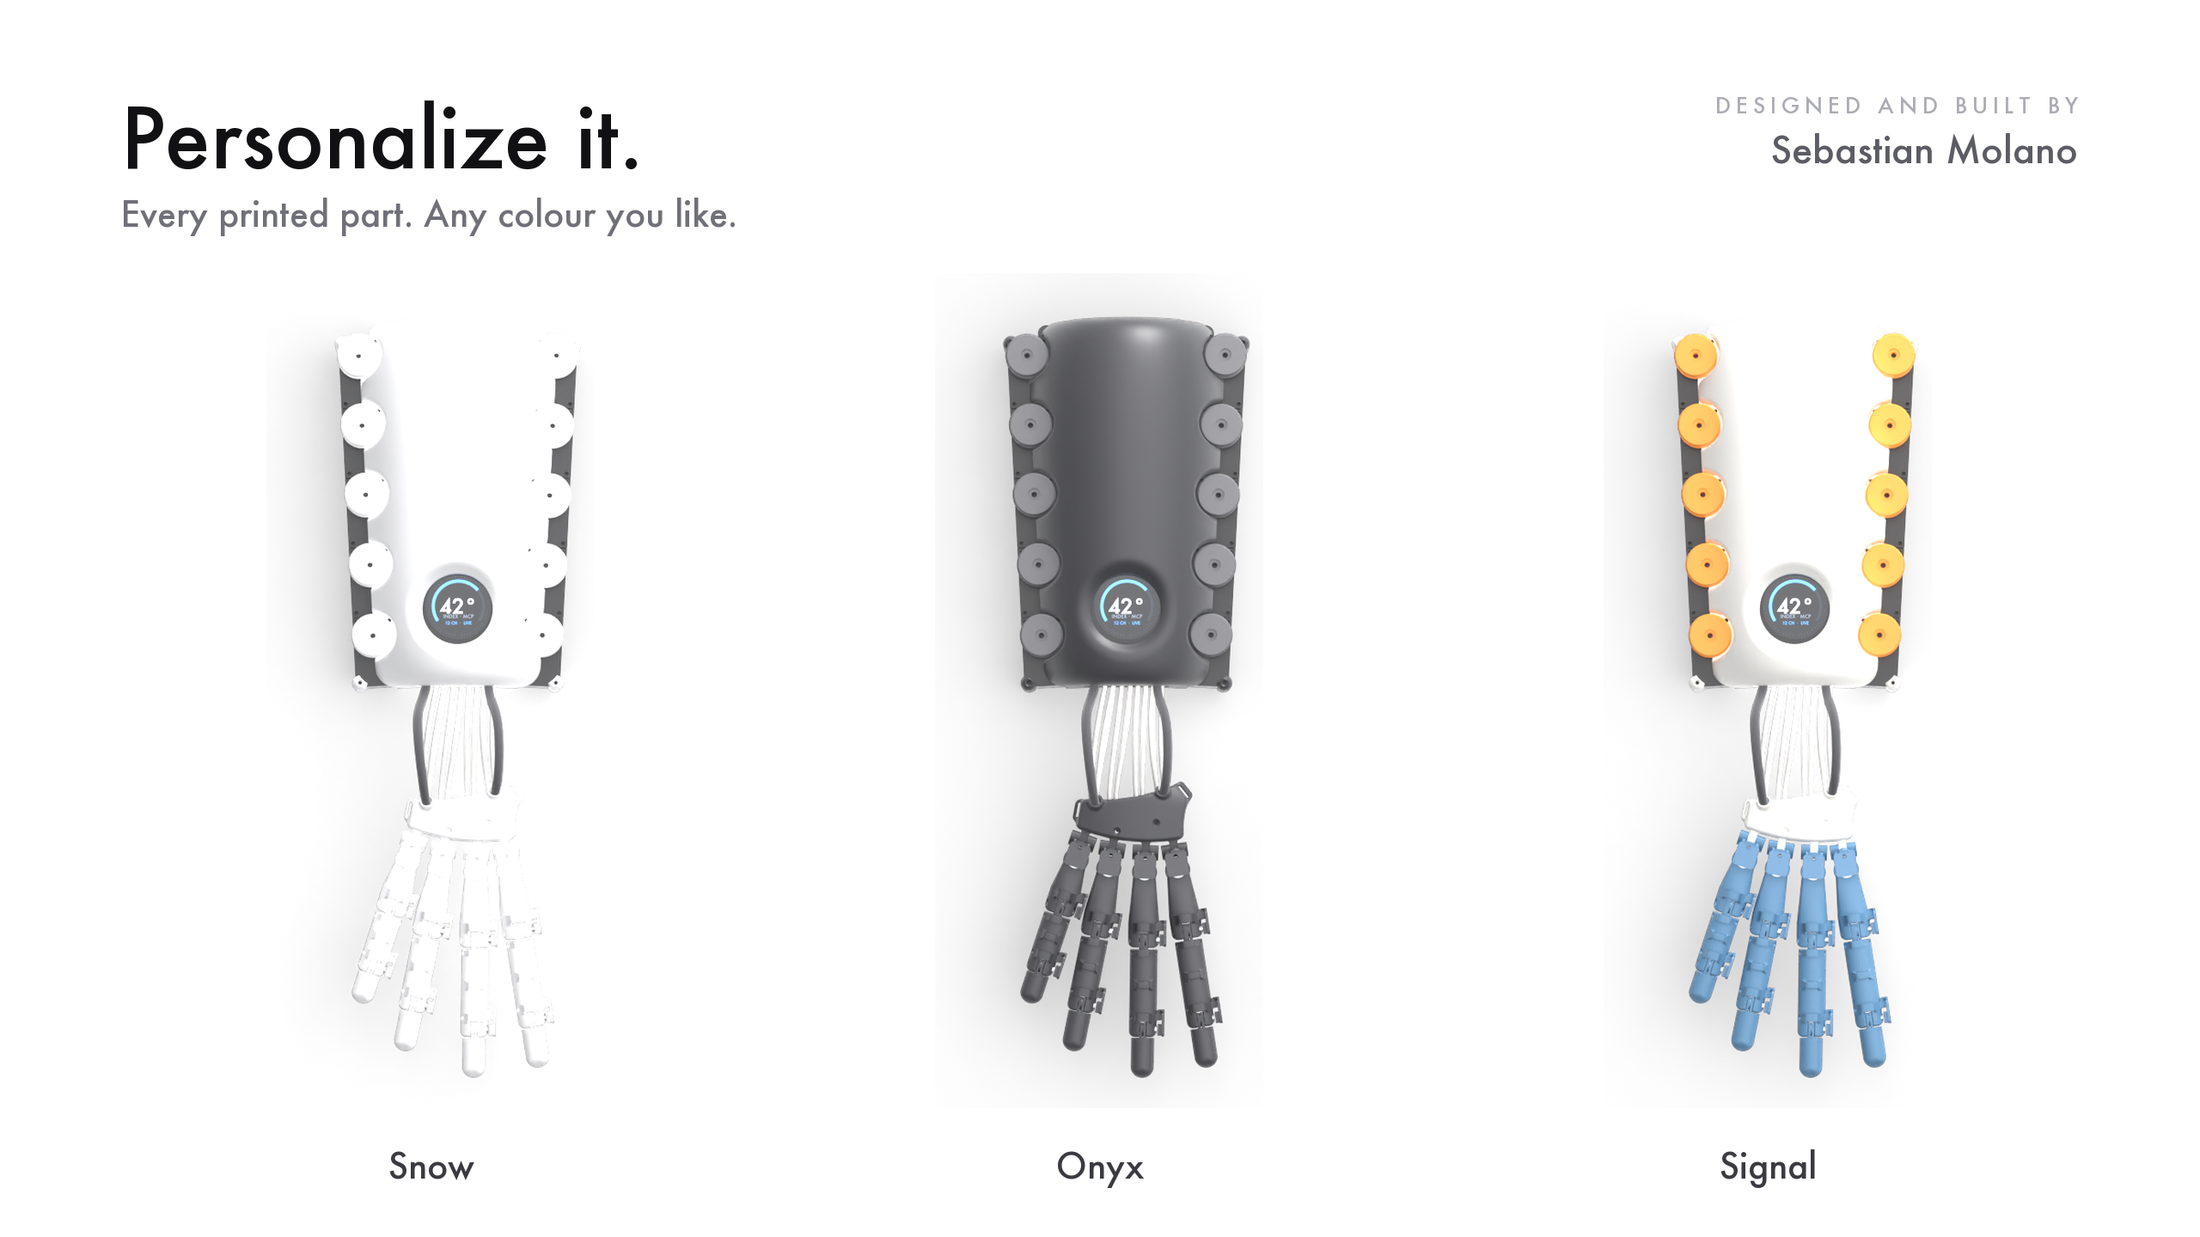
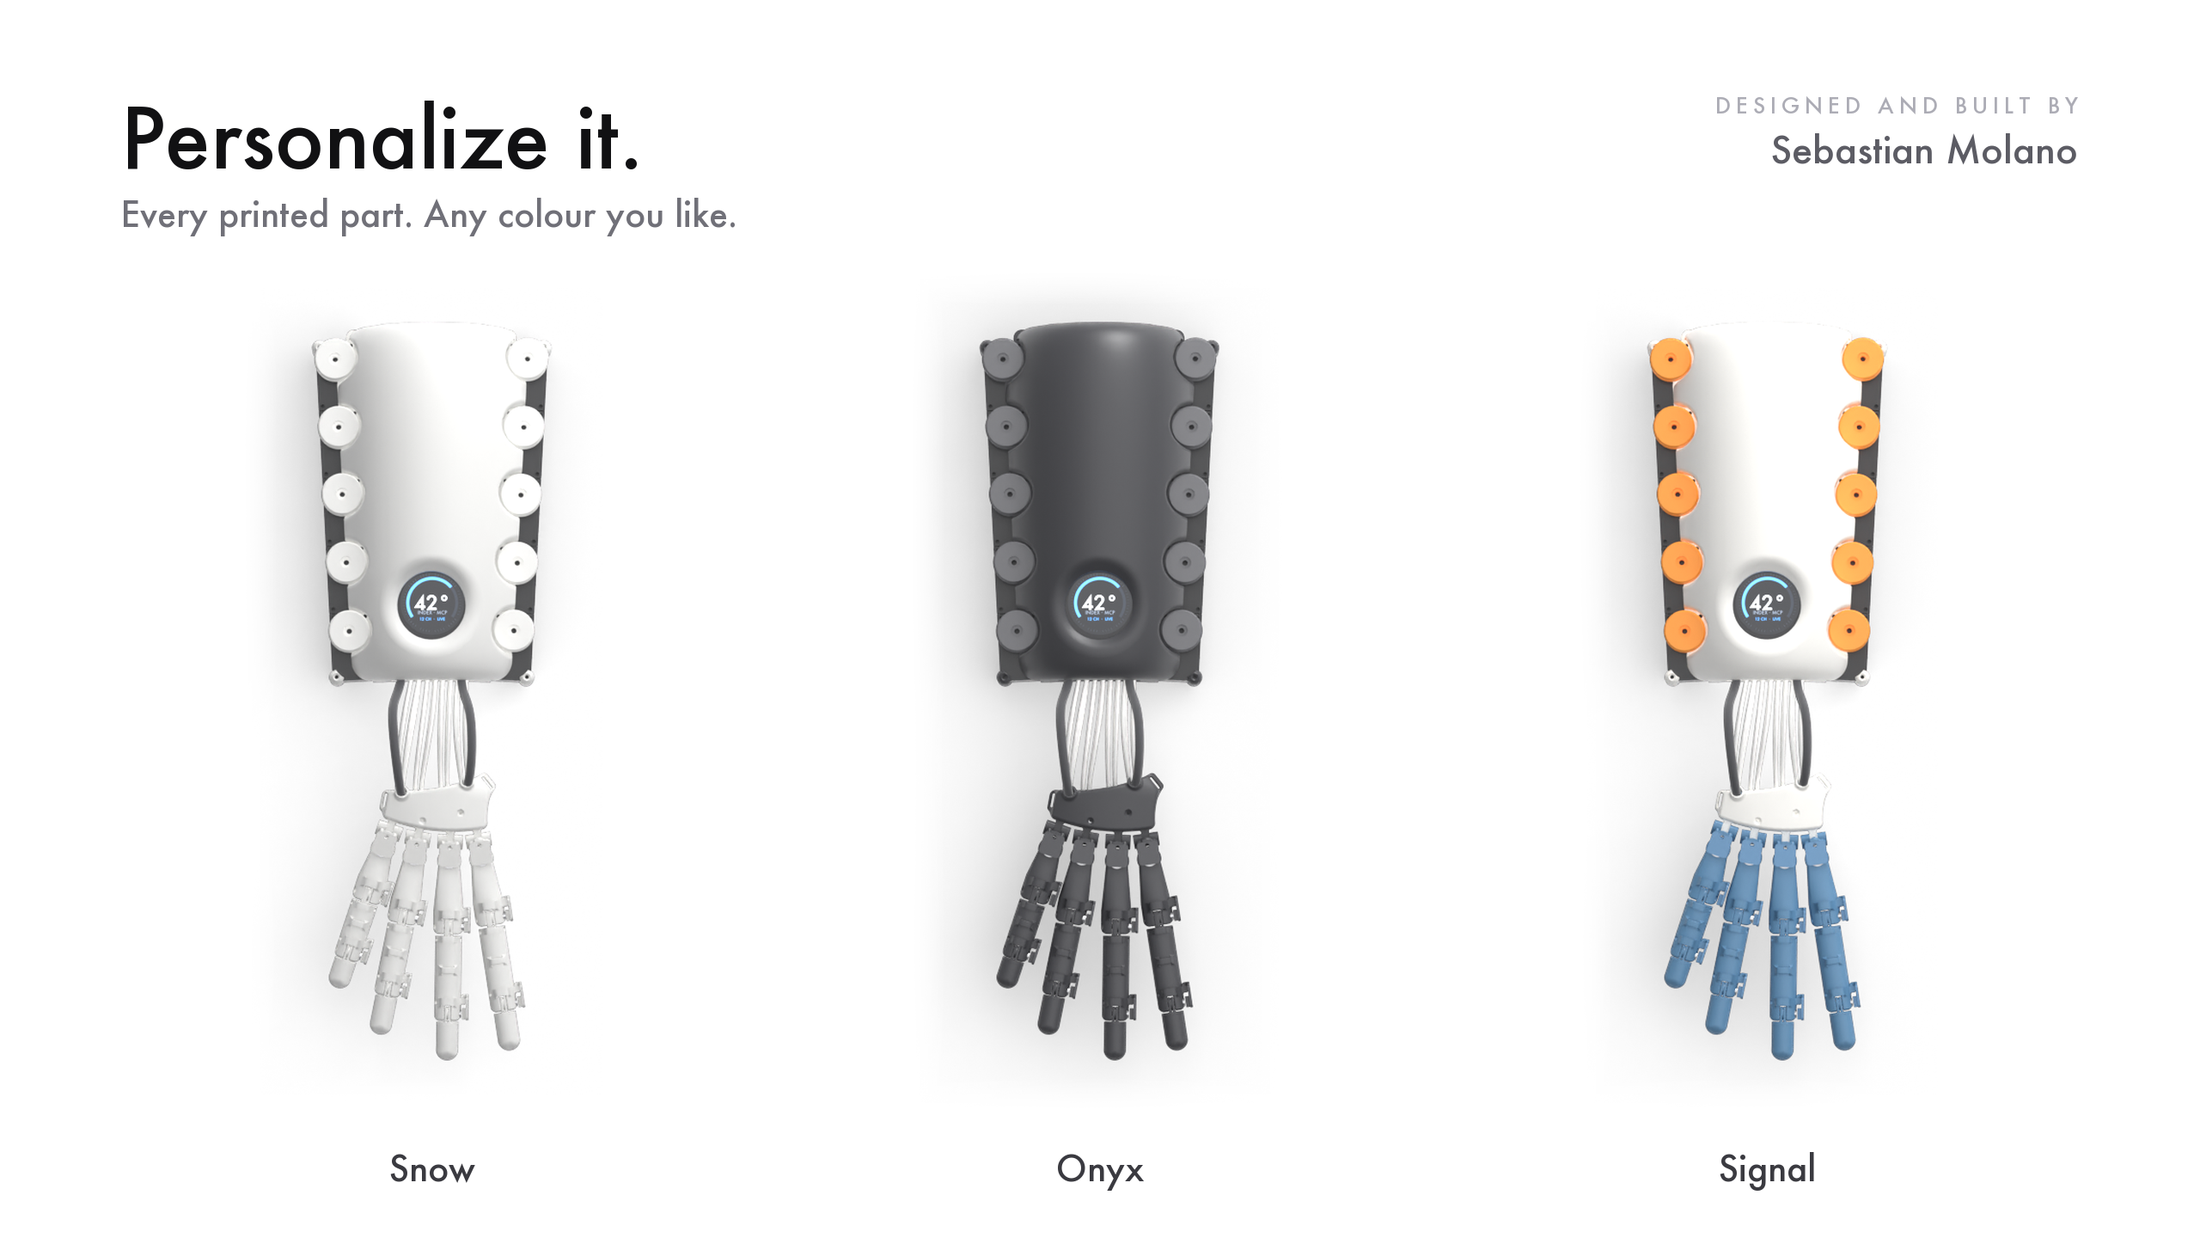
Fix the panel seams and give Snow separation from the page
The visible margin around each device was not a background mismatch: page and
render both sit at 254-255. It was the shadow being sliced at the crop border,
which left a step from 240 straight to page white. Panels are now feathered over
40px, so whatever the crop cuts blends out. Cropping to the device rather than
to the whole shadow keeps the devices large, which including the full shadow did
not.

Snow was 11 levels off a white page and disappearing into it. Lowering albedo
alone did nothing, because the plan view is lit brightly enough to blow the body
out regardless. Exposure was the actual lever: flatbg sets the page from the
world rather than the lights, so reducing light darkens only the object.
Snow now sits 18 levels below the page, against the hero's 15, and still reads
as white rather than grey.

diff --git a/software/web/src/locales/de.js b/software/web/src/locales/de.js
@@ -80,9 +80,6 @@ export const L = {
       { k: "Quellcode", h: "Von der Firmware bis zum Frontend",
         p: "Firmware, Host-Bridge, drei Konsolen, diese Seite inklusive.",
         label: "GitHub" },
-      { k: "Preprint", h: "TAKTO ONE Paper",
-        p: "Offenes Forschungspapier. Diese URL wird nach Vergabe durch die DOI ersetzt.",
-        label: "Preprint lesen" },
       { k: "Bauanleitung", h: "TAKTO ONE bauen",
         p: "Schritt-für-Schritt-Anleitung für den Aufbau des vollständigen Instruments.",
         label: "Anleitung öffnen" },

diff --git a/software/web/src/locales/es.js b/software/web/src/locales/es.js
@@ -80,9 +80,6 @@ export const L = {
       { k: "Código", h: "Del firmware al frontend",
         p: "Firmware, puente de host, tres consolas, esta página incluida.",
         label: "GitHub" },
-      { k: "Preprint", h: "Artículo TAKTO ONE",
-        p: "Artículo de investigación abierto. Esta URL se sustituirá por el DOI al publicarse.",
-        label: "Leer preprint" },
       { k: "Guía", h: "Construye TAKTO ONE",
         p: "Guía paso a paso para montar el instrumento completo.",
         label: "Abrir guía" },

diff --git a/software/web/src/locales/en.js b/software/web/src/locales/en.js
@@ -92,9 +92,6 @@ export const L = {
       { k: "Source", h: "Firmware to frontend",
         p: "Firmware, host bridge, three consoles, this page included.",
         label: "GitHub" },
-      { k: "Preprint", h: "TAKTO ONE paper",
-        p: "Open research paper. A DOI link will replace this preprint URL when issued.",
-        label: "Read preprint" },
       { k: "Build guide", h: "Build TAKTO ONE",
         p: "Step-by-step assembly guide for the complete instrument.",
         label: "Open guide" },
